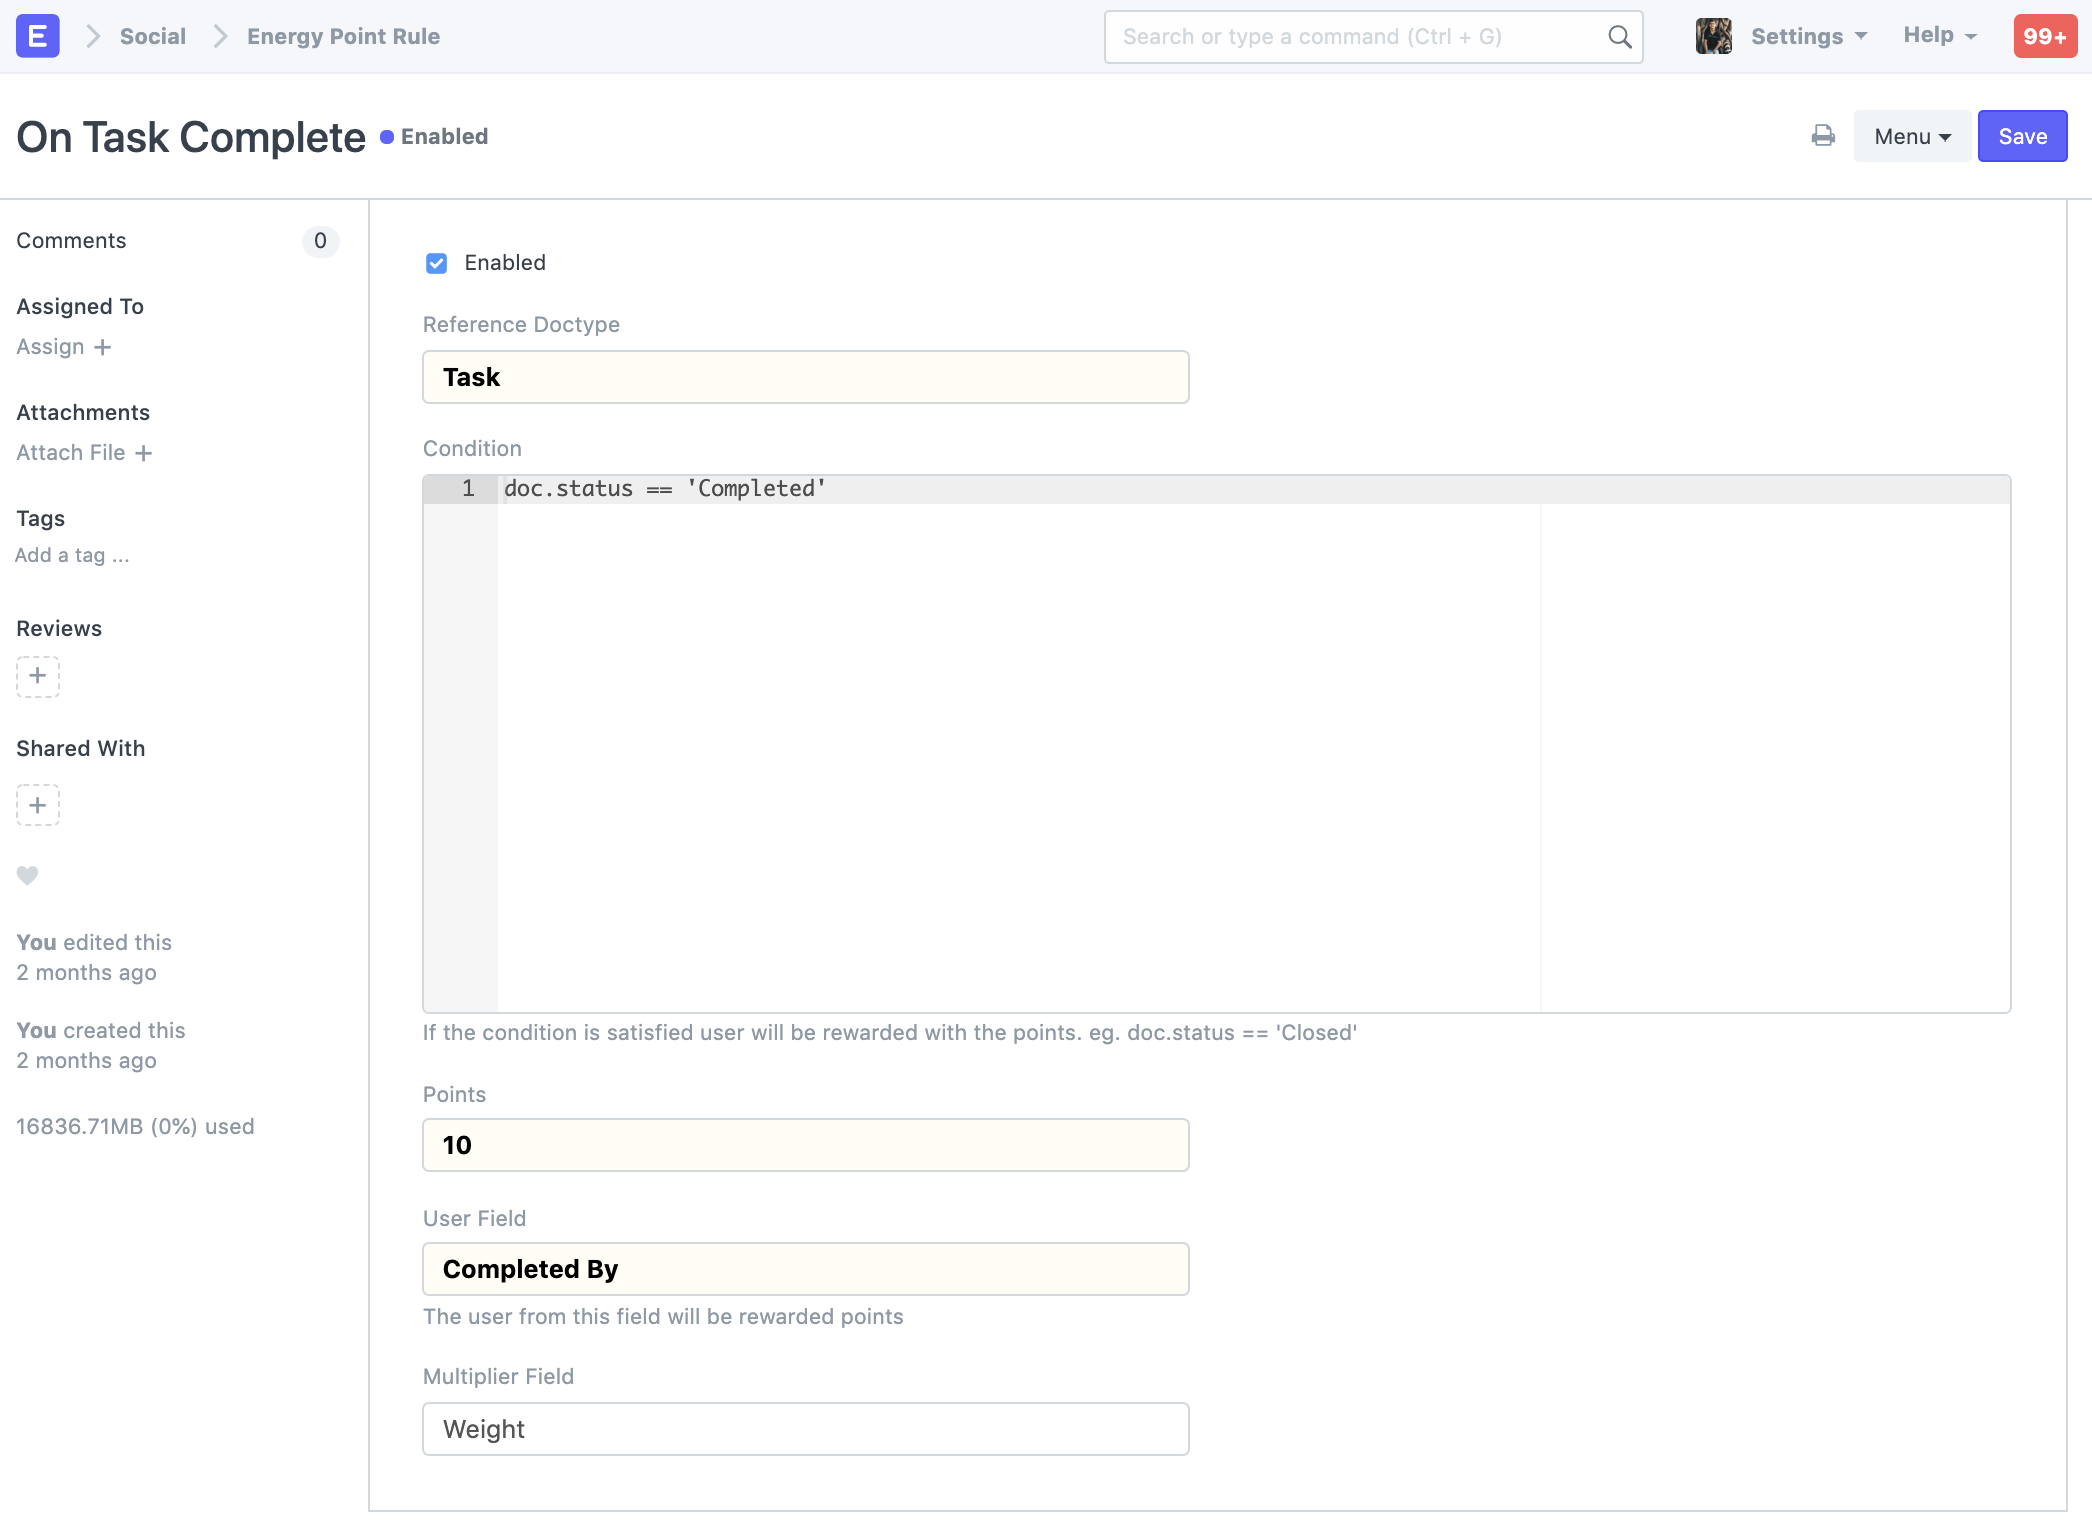
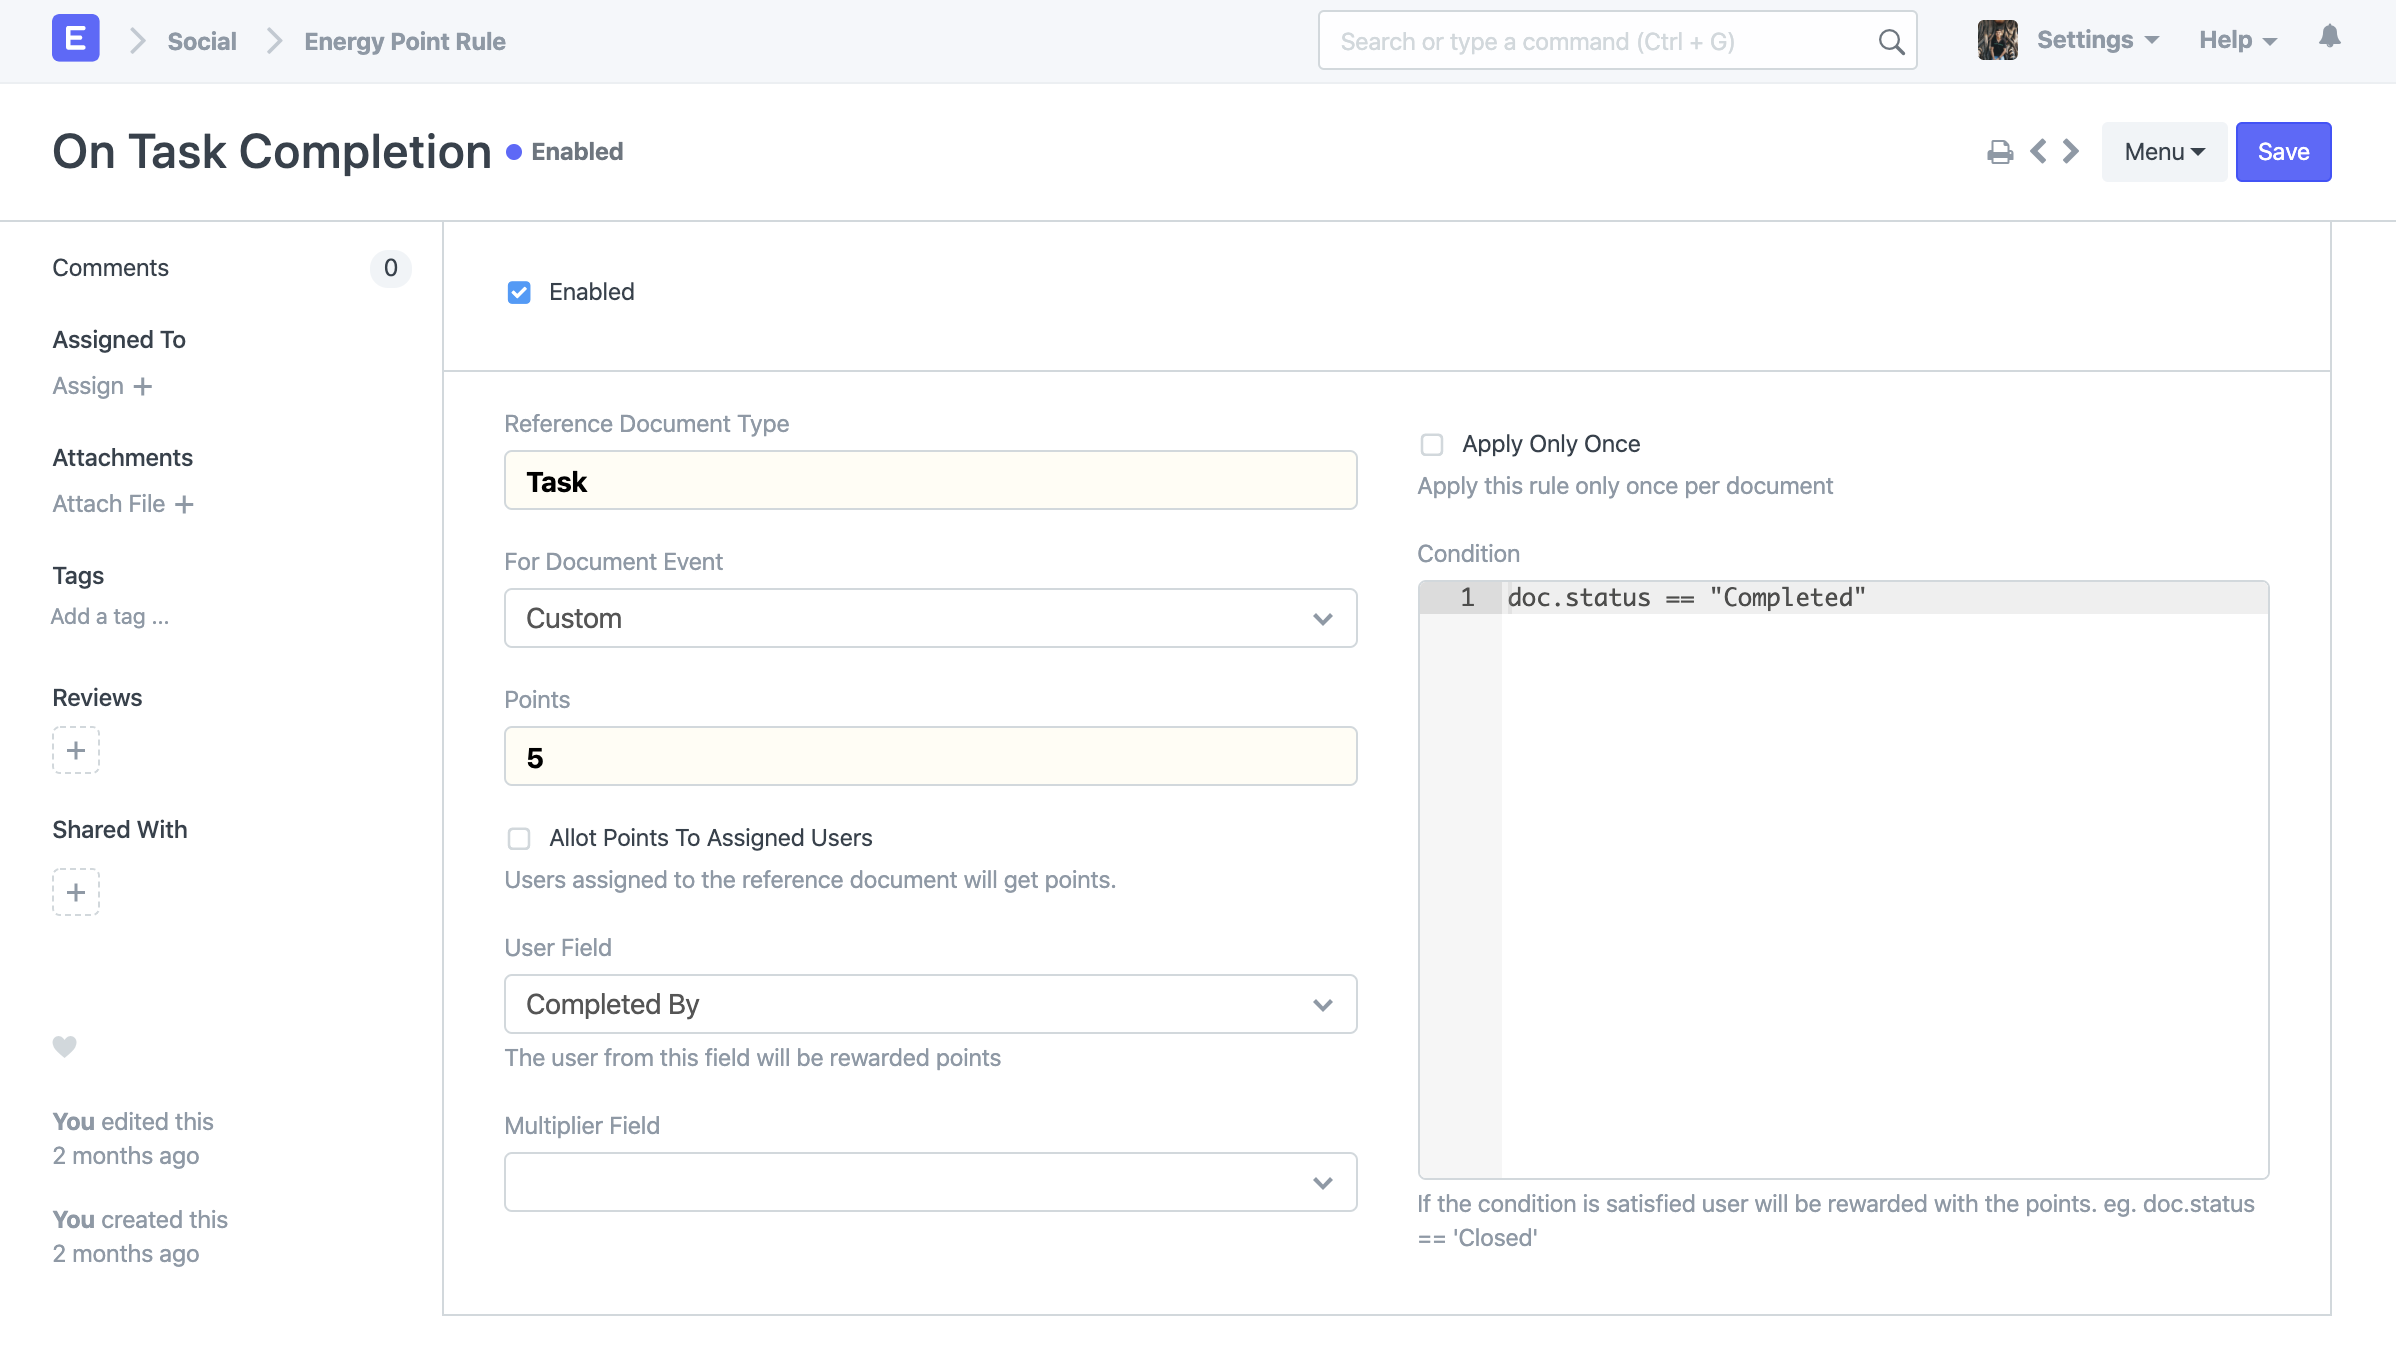
docs: Update EPS docs (#572)
* docs: Add info about new fields

* docs: Update docs images

* chore: Remove unwanted images

* Update energy-point-system.md

diff --git a/erpnext_com/www/docs/user/manual/en/setting-up/energy-point-system.md b/erpnext_com/www/docs/user/manual/en/setting-up/energy-point-system.md
@@ -20,10 +20,13 @@ Energy Point Rule has the following fields:
 | Field        | Description  |
 | ------------- |:-------------|
 | Reference DocType| Document Type you want to apply the rule on eg. Task, ToDo, Issue, etc. |
-| Condition| Condition for the point allocation. <br>eg. `doc.status == 'Closed'`<br>The above condition will check whether the `status` field in the document is 'Closed' and if yes then the points will be allocated to the user.       |
+| For Document Event| Options: Save, Submit, Cancel, and Custom.<br>**Note:** If "Custom" option is selected then the "Conditions" field becomes mandatory|
 | Points | Points to be allocated.|
+| Allot Points To Assigned Users | If checked, users assigned to the reference document will get points. eg. If users Reema and Jai are assigned to a particular task then both of them i.e, Reema and Jai will get points when the document fulfills the condition|
 | User Field | Field from which user will be selected eg. `Resolved By`, `Modified By`, `Owner`, etc. can be used.      |
 | Multiplier Field | Field which stores value for the multiplier. This field can take numeric and decimal values which will be multiplied with points defined in the rule. <br> For example: 2 (multiplier) * 10 (points set in the rule) = 20 points     |
+| Condition | Condition for the point allocation. <br>eg. `doc.status == 'Closed'`<br>The above condition will check whether the `status` field in the document is 'Closed' and if yes then the points will be allocated to the user.       |
+| Apply Only Once | The rule will be applied only once per document.|
 
 > **Note:** User Field and Multiplier Field are fetched from the reference doctype.
 
